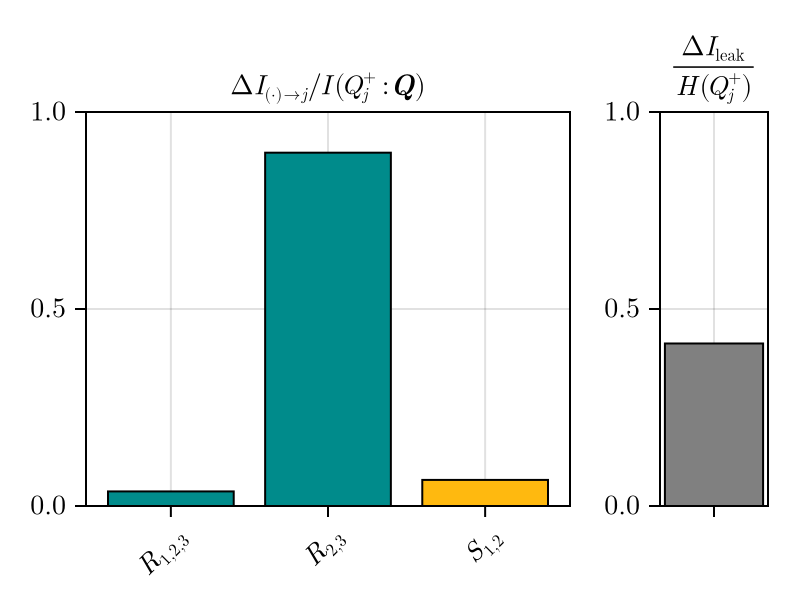
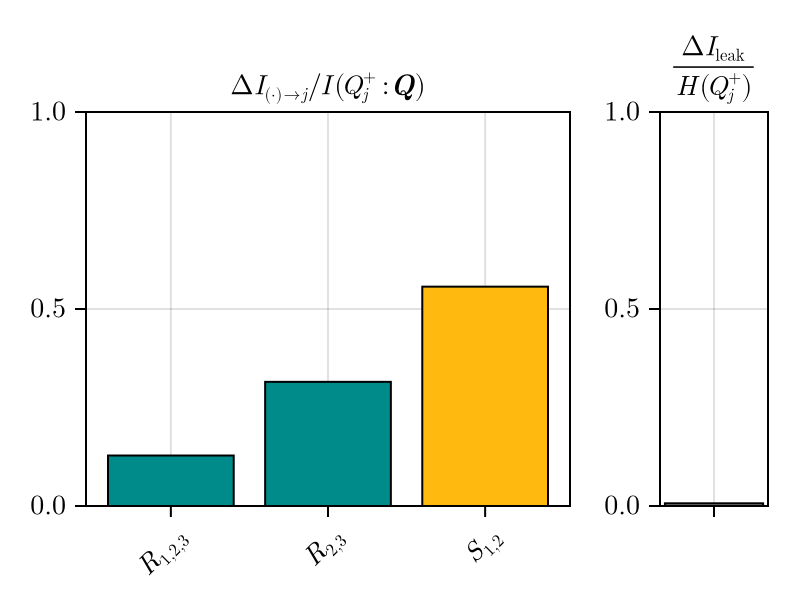
[fix] documentを修正

Changed region(s): [[0.3125, 0.24, 0.6875, 0.81], [0.8125, 0.57, 0.9688, 0.84], [0.125, 0.75, 0.3125, 0.84]]

diff --git a/docs/src/index.md b/docs/src/index.md
@@ -25,9 +25,9 @@ using Random, SURD
 
 # Example data
 rng = MersenneTwister(42)
-Q1 = zeros(1000000)
-Q2 = zeros(1000000)
-Q3 = zeros(1000000)
+Q1 = zeros(100000)
+Q2 = zeros(100000)
+Q3 = zeros(100000)
 
 # Initialize the time series with some random values
 Q1[1] = randn(rng)
@@ -35,7 +35,7 @@ Q2[1] = randn(rng)
 Q3[1] = randn(rng)
 
 # Generate synthetic time series data
-for i in 2:1000000
+for i in 2:100000
     Q1[i] = 0.3*Q1[i-1] + sin(Q2[i-1] * Q3[i-1]) + 0.001 * randn(rng)
     Q2[i] = 0.5 * Q2[i-1] + 0.1 * randn(rng)
     Q3[i] = Q2[i]
@@ -43,7 +43,7 @@ end
 
 # Perform SURD decomposition
 # (Q1, Q2, Q3) -> Q2^+
-result = surd(Q1[2:end], (Q1[1:end-1], Q2[1:end-1], Q3[1:end-1]), SURD.Histogram(); log=true)
+result = surd(Q1[2:end], (Q1[1:end-1], Q2[1:end-1], Q3[1:end-1]), SURD.kNN(); log=true)
 
 ```
 
@@ -51,7 +51,7 @@ result = surd(Q1[2:end], (Q1[1:end-1], Q2[1:end-1], Q3[1:end-1]), SURD.Histogram
 number of bins per variable, pass a positive integer to `SURD.Histogram`.
 
 ```julia
-result = surd(Q1[2:1001], (Q1[1:1000], Q2[1:1000]), SURD.Histogram(; nbins=16))
+result = surd(Q1[2:end], (Q1[1:end-1], Q2[1:end-1]), SURD.Histogram(; nbins=16))
 ```
 
 ## Continuous data
@@ -61,7 +61,7 @@ scalar series. Use a matrix with observations in columns for a vector-valued
 series.
 
 ```julia
-continuous = surd(Q1[2:1001], (Q1[1:1000], Q2[1:1000]), SURD.kNN(; k=5))
+continuous = surd(Q1[2:end], (Q1[1:end-1], Q2[1:end-1]), SURD.kNN(; k=5))
 ```
 
 Both methods return the component fractions under `"u"`, `"r"`, and `"s"`,
